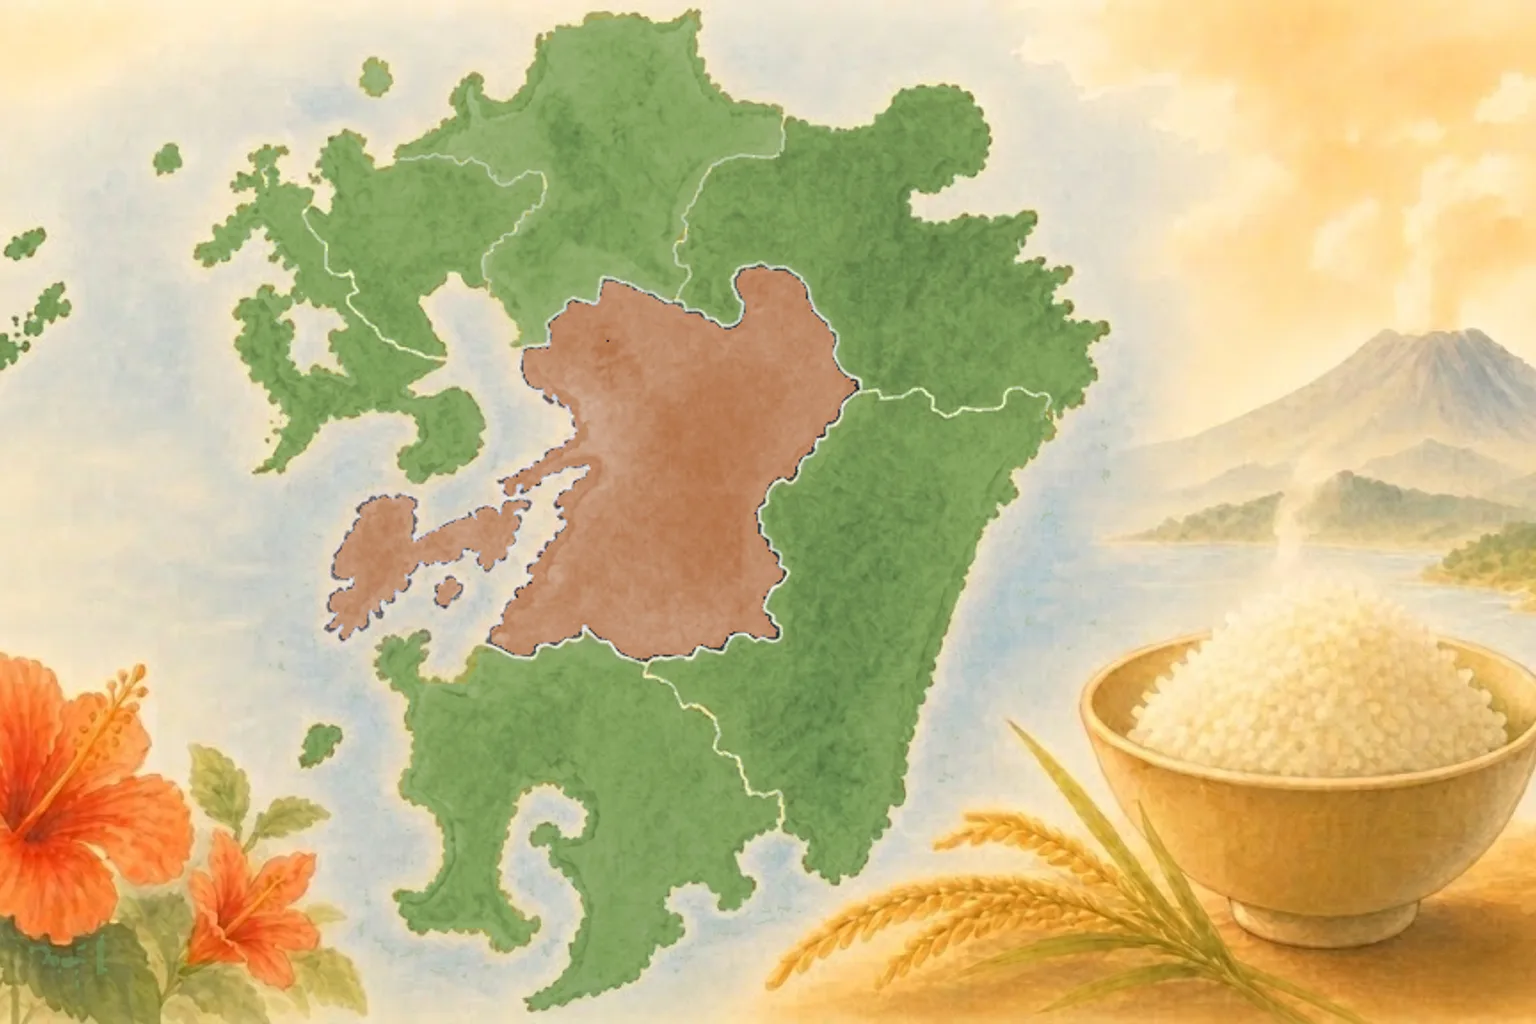
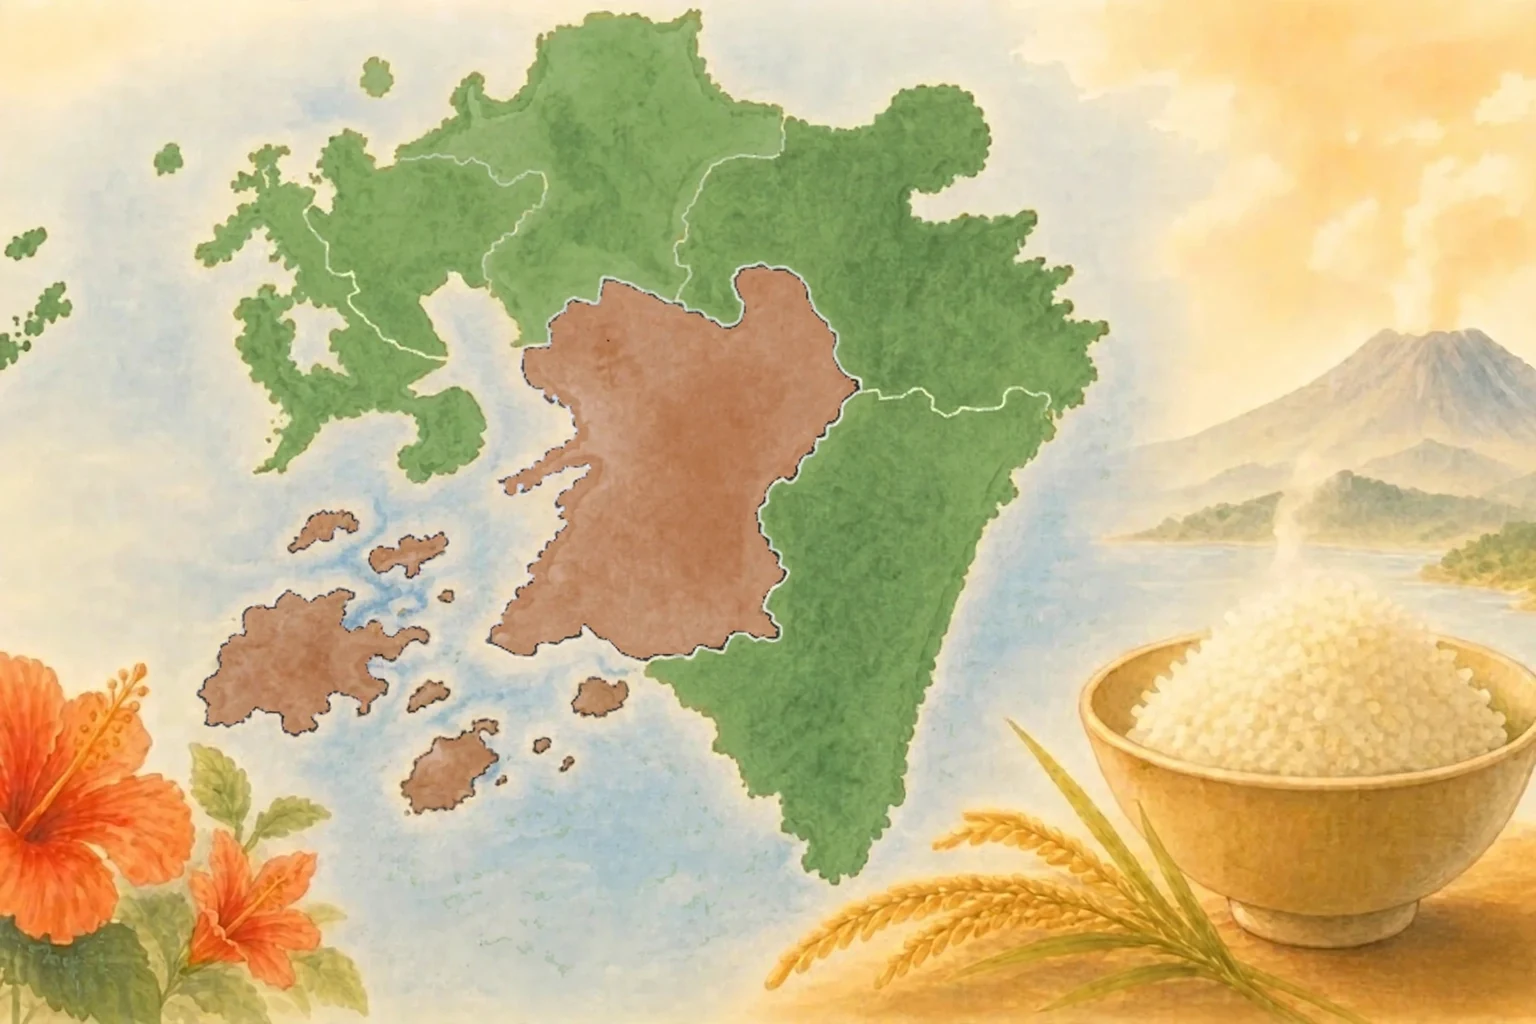
v1.21.3: 産地画の地理修正（徳島・熊本）

diff --git a/docs/10-changelog.md b/docs/10-changelog.md
@@ -5,6 +5,7 @@
 見出し日付は発版日（`YYYY-MM-DD`）。旧版は VERSION を上げた commit 日で遡及記入。
 
 ## Unreleased
+- 産地画の地理の誤りを2件修正：徳島県の画は、徳島が四国から離れた島のように描かれていたため、四国の東端として陸続きに描き直した。熊本県の画は、天草諸島が一塊の陸地に見えたため、大小の島が海峡を隔てて散らばる諸島として描き直した。全産地画の点検で見つかった修正で、画風と構図は従来のものを保っている
 - 長崎県の3銘柄に専用の銘柄画を新設：なつほのか（夏の棚田と海）、にこまる（実りの秋の稲穂）、ヒノヒカリ（長崎産）（港町の朝の食卓）。これまで産地画の流用だったものを、各銘柄の持ち味に合わせた水彩画に差し替えた。銘柄画のある銘柄は14銘柄になった
 - 詳細ページの頁頭をサイト左端に統一：産地・特集・銘柄・料理・銘柄くらべの各詳細ページで、パンくずと見出しが中央の閲覧欄（40rem）に寄っていたのを、索引ページと同じくサイト幅の左端へ戻した。本文の閲覧欄レイアウトは変更なし
 - 長崎県の産地画を修正：県の範囲を示す色づけに、鹿児島県の甑島列島まで長崎県の色が付いていたため、島の部分を周囲の県と同じ緑に直した
